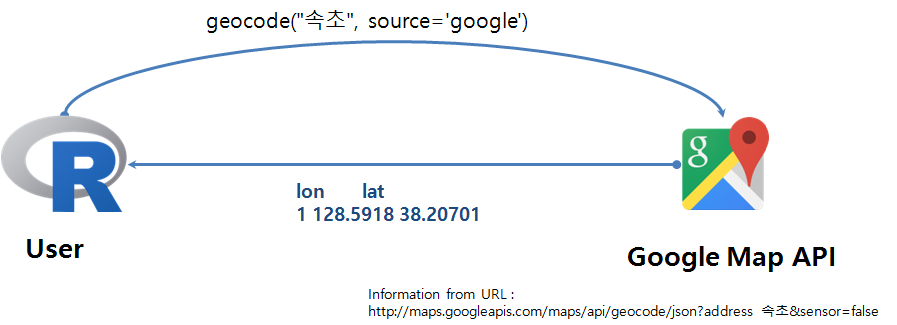
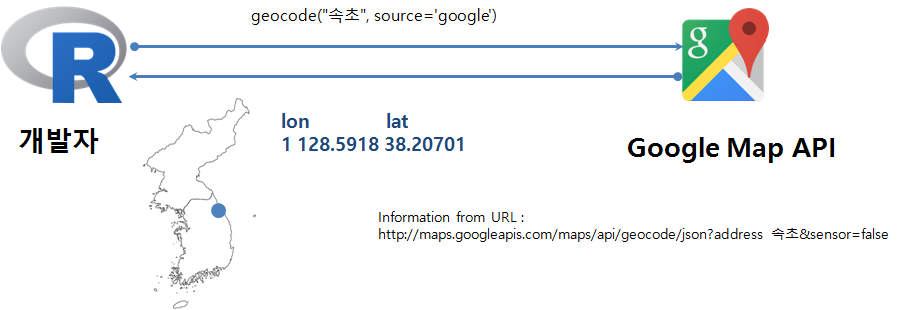
geocode lesson authored

diff --git a/geo-info-google.html b/geo-info-google.html
@@ -37,54 +37,90 @@
       <div class="row">
         <div class="col-md-10 col-md-offset-1">
           <h1 class="title">데이터 과학</h1>
-          <h2 class="subtitle">지리정보 시각화 - 구글</h2>
+          <h2 class="subtitle">지리정보 시각화 - 지리정보 API</h2>
 <section class="objectives panel panel-warning">
 <div class="panel-heading">
 <h2 id="학습-목표"><span class="glyphicon glyphicon-certificate"></span>학습 목표</h2>
 </div>
 <div class="panel-body">
 <ul>
-<li>한국지명을 지리정보(위도, 경도)로 변환한다. <a href="#fn1" class="footnoteRef" id="fnref1"><sup>1</sup></a></li>
-<li><code>leaflet</code> 팩키지를 활용하여 지리정보를 시각화한다.</li>
+<li>한국 주소명을 지리정보(위도, 경도)로 변환한다. <a href="#fn1" class="footnoteRef" id="fnref1"><sup>1</sup></a></li>
+<li><code>dplyr</code> 팩키지 <code>mutate_geocode</code> 위도경도 함수를 파이프연산자와 결합하여 코드를 간결화한다.</li>
 </ul>
 </div>
 </section>
-<h3 id="한국지명을-지리정보로-변환">한국지명을 지리정보로 변환</h3>
-<h4 id="구글-지도정보-api">구글 지도정보 API</h4>
-<p>한국지명을 전달하면 위도, 경도 정보를 반환하는 API로 <a href="https://developers.google.com/maps/?hl=ko">구글 지도 API</a>를 사용한다. <code>library(ggmap)</code> 팩키지를 불러오면 <code>geocode</code> 함수가 지명을 받아 위도, 경도 정보를 반환한다.</p>
-<p><img src="fig/geo-googleapi.png" alt="Google 지도 API" width="50%" /></p>
+<h3 id="지리정보-api---geocode">1. 지리정보 API - <code>geocode</code></h3>
+<p>데이터를 지리정보와 결합하여 제공할 경우 현상에 대한 이해, 예측, 통찰력을 얻을 수 있다. 데이터를 지리정보와 결합할 때, 가장 필요한 것이 주소정보에 위도와 경도 정보를 붙여 지도에 표시하게 된다.</p>
+<p>주소정보가 제공되었을 때, 이에 해당되는 위도와 경도를 불러올 때 사용하는 것이 함수의 일종인 API다. 위경도 정보를 제공하는 업체로 구글, 네이버, 다음 등 여러 업체가 있다.</p>
+<p>R에서 구글, 네이버, 다음등에서 제공하는 지리정보 API를 활용할 경우, 크게 두가지 방법이 존재한다. 하나는 직접 구글, 네이버, 다음 지리정보 API 문서를 읽고 R코드로 작성하는 방식이 있고, 또 다른 하나는 <code>ggmap</code> 팩키지에서 이미 지리정보 API를 내재화해서 함수로 구현해 놓은 것을 호출해서 사용하는 방법이다.</p>
+<p>한국주소를 전달하면 위도, 경도 정보를 반환하는 API로 <a href="https://developers.google.com/maps/?hl=ko">구글 지도 API</a>를 기본으로 사용한다. <code>library(ggmap)</code> 팩키지를 불러오면 <code>geocode</code> 함수가 주소명을 받아 위도, 경도 정보를 반환한다. 하지만, Hadley Wickham이 관여한 팩키지는 <a href="encoding.html">인코딩</a>으로 <strong>utf-8</strong>을 사용한다. 따라서, 한국어는 <code>enc2utf8</code> 함수를 사용해서 인코딩을 바꿔 넣은 후에 <code>geocode</code> 함수에 인자로 넣어야 원하는 위도경도 정보를 반환받을 수 있다.</p>
+<p><img src="fig/geo-googleapi.png" alt="Google 지도 API" width="77%" /></p>
 <div class="sourceCode"><pre class="sourceCode r"><code class="sourceCode r"><span class="kw">library</span>(ggmap)
 <span class="kw">library</span>(ggplot2)
 <span class="kw">geocode</span>(<span class="kw">enc2utf8</span>(<span class="st">&quot;속초&quot;</span>), <span class="dt">source=</span><span class="st">&#39;google&#39;</span>)</code></pre></div>
-<pre><code>FALSE        lon      lat
-FALSE 1 128.5918 38.20701</code></pre>
+<pre class="output"><code>FALSE        lon      lat
+FALSE 1 128.5918 38.20701
+</code></pre>
 <p>주소정보를 함께 출력하고자할 경우 <code>output=&quot;latlona&quot;</code> 선택옵션을 추가한다.</p>
 <div class="sourceCode"><pre class="sourceCode r"><code class="sourceCode r"><span class="co">#geocode(enc2utf8(&quot;속초&quot;), source=&#39;google&#39;, output=&quot;latlona&quot;)</span>
 <span class="kw">geocode</span>(<span class="kw">enc2utf8</span>(<span class="st">&quot;속초&amp;language=ko&quot;</span>), <span class="dt">source=</span><span class="st">&#39;google&#39;</span>, <span class="dt">output=</span><span class="st">&quot;latlona&quot;</span>)</code></pre></div>
-<pre><code>FALSE        lon      lat                address
-FALSE 1 128.5918 38.20701 대한민국 강원도 속초시</code></pre>
+<pre class="output"><code>FALSE        lon      lat                address
+FALSE 1 128.5918 38.20701 대한민국 강원도 속초시
+</code></pre>
 <p><code>&quot;속초&quot;</code>를 <code>geocode</code> 함수 인자로 넣은 경우와 <code>&quot;속초&amp;language=ko&quot;</code> 넣어 함께 넘긴 경우 한글주소로 출력되게 한다.</p>
-<h4 id="다수-한글지명을-구글-지도-api-에-넘겨-위경도-정보-받아오기">다수 한글지명을 구글 지도 API 에 넘겨 위경도 정보 받아오기</h4>
-<p><code>mutate_geocode</code> 함수를 사용해서 위경도 정보를 일괄적으로 받아와서 R 객체로 저장한다.</p>
-<div class="sourceCode"><pre class="sourceCode r"><code class="sourceCode r"><span class="kw">library</span>(dplyr)
-df &lt;-<span class="st"> </span><span class="kw">data.frame</span>(<span class="dt">city=</span><span class="kw">c</span>(<span class="st">&quot;속초&quot;</span>, <span class="st">&quot;강릉&quot;</span>, <span class="st">&quot;양양&quot;</span>, <span class="st">&quot;간성&quot;</span>), <span class="dt">stringsAsFactors =</span> <span class="ot">FALSE</span>)
-df.yd &lt;-<span class="st"> </span>df %&gt;%<span class="st"> </span><span class="kw">mutate_geocode</span>(city)</code></pre></div>
-<p>영동지방 4개 지역에 대한 정보를 받아온다. 받아온 정보를 <code>df.yd</code> 데이터프레임에 저장하고 이를 활용하여 구글지도에 시각화를 한다.</p>
-<div class="sourceCode"><pre class="sourceCode r"><code class="sourceCode r">youngdongMap &lt;-<span class="st"> </span><span class="kw">qmap</span>(<span class="kw">enc2utf8</span>(<span class="st">&quot;속초&quot;</span>), <span class="dt">zoom =</span> <span class="dv">8</span>, <span class="dt">maptype =</span> <span class="st">&quot;toner-lite&quot;</span>)
+<h3 id="한개-이상-주소정보에서-위도경도-정보-뽑아내기">2. 한개 이상 주소정보에서 위도경도 정보 뽑아내기</h3>
+<p>구글 지도 API를 사용할 경우, 무료로 이용할 수 있는 반면에 사용자의 오남용을 방지하기 위해서 어느 API 서비스도 마찬가지지만, 구글이나 API 서비스 제공자 임의로 API를 변경할 수 있고, 사용제한을 둔다. 현재 글을 작성하는 시점에서 구글 지도 API의 경우 일일 2,500 번 무료로 사용이 가능하다.</p>
+<p><code>geocodeQueryCheck(userType = &quot;free&quot;)</code> 명령어를 사용하여 구글 지도 API 사용량을 확인할 수 있다.</p>
+<div class="sourceCode"><pre class="sourceCode r"><code class="sourceCode r"><span class="kw">geocodeQueryCheck</span>(<span class="dt">userType =</span> <span class="st">&quot;free&quot;</span>)</code></pre></div>
+<pre class="output"><code>2498 geocoding queries remaining.
+</code></pre>
+<p>경기도 및 강원도 3개 지점에 대한 위도경도 정보를 받아오는 경우, 먼저 데이터프레임을 생성하고 나서, <code>enc2utf8()</code> 함수로 인코딩을 검증하고 나서 <code>geocode</code> API를 호출해서 위도경도 정보를 받아오면서 바로 데이터프레임에 붙인다.</p>
+<div class="sourceCode"><pre class="sourceCode r"><code class="sourceCode r"><span class="kw">library</span>(ggmap)
+<span class="kw">library</span>(ggplot2)
+<span class="kw">library</span>(plyr)
 
-youngdongMap +<span class="st"> </span><span class="kw">geom_point</span>(<span class="dt">data =</span> df.yd, <span class="kw">aes</span>(lon,lat), <span class="dt">size =</span> <span class="dv">2</span>, <span class="dt">colour=</span><span class="st">&quot;blue&quot;</span>)</code></pre></div>
-<div class="figure">
-<img src="figure/unnamed-chunk-4-1.png" alt="plot of chunk unnamed-chunk-4" />
-<p class="caption">plot of chunk unnamed-chunk-4</p>
-</div>
-<h3 id="leaflet-팩키지"><code>leaflet</code> 팩키지</h3>
-<p>GoogleVis <a href="#fn2" class="footnoteRef" id="fnref2"><sup>2</sup></a>, 전세계 원자력 발전소 위치 <a href="#fn3" class="footnoteRef" id="fnref3"><sup>3</sup></a></p>
+<span class="kw">geocodeQueryCheck</span>(<span class="dt">userType =</span> <span class="st">&quot;free&quot;</span>)
+
+kangwon.loc &lt;-<span class="st"> </span><span class="kw">data.frame</span>(<span class="dt">addr=</span><span class="kw">c</span>(<span class="st">&quot;강원도 속초시 영랑동&quot;</span>, 
+                                 <span class="st">&quot;경기도 의왕시 포일세거리로 73&quot;</span>,
+                                 <span class="st">&quot;경기도 성남시 분당구 미금동&quot;</span>), <span class="dt">stringsAsFactors =</span> <span class="ot">FALSE</span>)
+
+kangwon.loc$addr &lt;-<span class="st"> </span><span class="kw">enc2utf8</span>(kangwon.loc$addr)
+
+kangwon.loc.latlon &lt;-<span class="st"> </span><span class="kw">geocode</span>(kangwon.loc$addr, <span class="dt">source=</span><span class="st">&quot;google&quot;</span>)
+
+kangwon.loc.latlon &lt;-<span class="st"> </span><span class="kw">with</span>(kangwon.loc, <span class="kw">data.frame</span>(addr,
+                                   <span class="kw">laply</span>(addr, function(val){<span class="kw">geocode</span>(val)})))
+
+kangwon.loc.latlon  </code></pre></div>
+<pre class="output"><code>FALSE                            addr      lon     lat
+FALSE 1          강원도 속초시 영랑동  128.588 38.2239
+FALSE 2 경기도 의왕시 포일세거리로 73 126.9683 37.3447
+FALSE 3   경기도 성남시 분당구 미금동 127.1189 37.3827
+</code></pre>
+<p><code>geocodeQueryCheck(userType = &quot;free&quot;)</code> 명령어로 사용량이 3개 준 것을 확인할 수 있다.</p>
+<div class="sourceCode"><pre class="sourceCode r"><code class="sourceCode r"><span class="kw">geocodeQueryCheck</span>(<span class="dt">userType =</span> <span class="st">&quot;free&quot;</span>)</code></pre></div>
+<pre class="output"><code>2492 geocoding queries remaining.
+</code></pre>
+<h3 id="dplyr-함수를-활용한-더-간결한-코드">3. <code>dplyr</code> 함수를 활용한 더 간결한 코드</h3>
+<p><code>dplyr</code>에서 제공하는 <code>mutate_geocode</code> 함수를 사용해서 위도경도 정보를 일괄적으로 받아와서 R 데이터프레임으로 저장한다.</p>
+<div class="sourceCode"><pre class="sourceCode r"><code class="sourceCode r"><span class="kw">library</span>(dplyr)
+kangwon.loc.dplyr &lt;-<span class="st"> </span>kangwon.loc %&gt;%<span class="st"> </span><span class="kw">mutate_geocode</span>(addr)
+kangwon.loc.dplyr</code></pre></div>
+<pre class="output"><code>FALSE                            addr      lon     lat
+FALSE 1          강원도 속초시 영랑동 128.5880 38.2239
+FALSE 2 경기도 의왕시 포일세거리로 73 126.9683 37.3447
+FALSE 3   경기도 성남시 분당구 미금동 127.1189 37.3827
+</code></pre>
+<p>경기도와 강원도 3개 주소정보를 구글 지도 API 지역에 전달하여 위도와 경도정보를 받아와서 이를 데이터프레임에 붙인다. 받아온 정보를 <code>kangwon.loc.dplyr</code> 데이터프레임에 저장하고 이를 활용하여 구글지도에 시각화를 한다.</p>
+<div class="sourceCode"><pre class="sourceCode r"><code class="sourceCode r">kangwonMap &lt;-<span class="st"> </span><span class="kw">qmap</span>(<span class="kw">enc2utf8</span>(<span class="st">&quot;속초&quot;</span>), <span class="dt">zoom =</span> <span class="dv">8</span>, <span class="dt">maptype =</span> <span class="st">&quot;toner-lite&quot;</span>)
+
+kangwonMap +<span class="st"> </span><span class="kw">geom_point</span>(<span class="dt">data =</span> kangwon.loc.dplyr, <span class="kw">aes</span>(lon,lat), <span class="dt">size =</span> <span class="dv">2</span>, <span class="dt">colour=</span><span class="st">&quot;blue&quot;</span>)</code></pre></div>
+<p><img src="fig/unnamed-chunk-8-1.png" title="plot of chunk unnamed-chunk-8" alt="plot of chunk unnamed-chunk-8" style="display: block; margin: auto;" /></p>
 <div class="footnotes">
 <hr />
 <ol>
 <li id="fn1"><p><a href="http://lumiamitie.github.io/r/geocoding-with-r-02/">GeoCoding with R</a><a href="#fnref1">↩</a></p></li>
-<li id="fn2"><p><a href="http://diggdata.in/post/51396519384/plotting-geo-spatial-data-on-google-maps-in-r">Plotting geo-spatial data on Google Maps in R</a><a href="#fnref2">↩</a></p></li>
-<li id="fn3"><p><a href="https://www.google.com/fusiontables/exporttable?query=select%20*%20from%201u4krB7NJ0Ppwzcd5h7uwOak3Reja4A7yVFIklw">Nuclear Power plants</a><a href="#fnref3">↩</a></p></li>
 </ol>
 </div>
         </div>

diff --git a/geo-info-ggmap.html b/geo-info-ggmap.html
@@ -124,6 +124,15 @@ KOR_adm2_projected &lt;-<span class="st"> </span><span class="kw">readOGR</span>
 <span class="kw">plot</span>(KOR_adm2_projected)</code></pre></div>
 <p><img src="fig/korea-admin-level.png" alt="대한민국 행정구역" width="70%" /></p>
 <p><a href="http://mazamascience.com/WorkingWithData/?p=1277">Using R - Working with Geospatial Data</a> <a href="http://neondataskills.org/R/Raster-Data-In-R/">Raster Data in R - The Basics</a></p>
+<h3 id="leaflet-팩키지"><code>leaflet</code> 팩키지</h3>
+<p>GoogleVis <a href="#fn1" class="footnoteRef" id="fnref1"><sup>1</sup></a>, 전세계 원자력 발전소 위치 <a href="#fn2" class="footnoteRef" id="fnref2"><sup>2</sup></a></p>
+<div class="footnotes">
+<hr />
+<ol>
+<li id="fn1"><p><a href="http://diggdata.in/post/51396519384/plotting-geo-spatial-data-on-google-maps-in-r">Plotting geo-spatial data on Google Maps in R</a><a href="#fnref1">↩</a></p></li>
+<li id="fn2"><p><a href="https://www.google.com/fusiontables/exporttable?query=select%20*%20from%201u4krB7NJ0Ppwzcd5h7uwOak3Reja4A7yVFIklw">Nuclear Power plants</a><a href="#fnref2">↩</a></p></li>
+</ol>
+</div>
         </div>
       </div>
       </article>

diff --git a/geo-info-google.md b/geo-info-google.md
@@ -1,7 +1,7 @@
 ---
 layout: page
 title: 데이터 과학
-subtitle: 지리정보 시각화 - 구글
+subtitle: 지리정보 시각화 - 지리정보 API
 output:
   html_document: 
     keep_md: yes
@@ -10,74 +10,166 @@ output:
 mainfont: NanumGothic
 ---
 
+
+
 > ## 학습 목표 {.objectives}
 >
-> *  한국지명을 지리정보(위도, 경도)로 변환한다. [^geoCodingWithR]
-> * `leaflet` 팩키지를 활용하여 지리정보를 시각화한다.
+> *  한국 주소명을 지리정보(위도, 경도)로 변환한다. [^geoCodingWithR]
+> * `dplyr` 팩키지 `mutate_geocode` 위도경도 함수를 파이프연산자와 결합하여 코드를 간결화한다.  
 
-### 한국지명을 지리정보로 변환
+### 1. 지리정보 API - `geocode` 
 
-#### 구글 지도정보 API 
+데이터를 지리정보와 결합하여 제공할 경우 현상에 대한 이해, 예측, 통찰력을 얻을 수 있다.
+데이터를 지리정보와 결합할 때, 가장 필요한 것이 주소정보에 위도와 경도 정보를 붙여 지도에 표시하게 된다.
 
-한국지명을 전달하면 위도, 경도 정보를 반환하는 API로 [구글 지도 API](https://developers.google.com/maps/?hl=ko)를 사용한다.
-`library(ggmap)` 팩키지를 불러오면 `geocode` 함수가 지명을 받아 위도, 경도 정보를 반환한다.
+주소정보가 제공되었을 때, 이에 해당되는 위도와 경도를 불러올 때 사용하는 것이 함수의 일종인 API다.
+위경도 정보를 제공하는 업체로 구글, 네이버, 다음 등 여러 업체가 있다.
+
+R에서 구글, 네이버, 다음등에서 제공하는 지리정보 API를 활용할 경우, 크게 두가지 방법이 존재한다. 
+하나는 직접 구글, 네이버, 다음 지리정보 API 문서를 읽고 R코드로 작성하는 방식이 있고,
+또 다른 하나는 `ggmap` 팩키지에서 이미 지리정보 API를 내재화해서 함수로 구현해 놓은 것을 호출해서 사용하는 방법이다.
+
+한국주소를 전달하면 위도, 경도 정보를 반환하는 API로 [구글 지도 API](https://developers.google.com/maps/?hl=ko)를 기본으로 사용한다. 
+`library(ggmap)` 팩키지를 불러오면 `geocode` 함수가 주소명을 받아 위도, 경도 정보를 반환한다.
+하지만, Hadley Wickham이 관여한 팩키지는 [인코딩](encoding.html)으로 **utf-8**을 사용한다. 
+따라서, 한국어는 `enc2utf8` 함수를 사용해서 인코딩을 바꿔 넣은 후에 `geocode` 함수에 인자로 넣어야 원하는 위도경도 정보를 반환받을 수 있다. 
+
+<img src="fig/geo-googleapi.png" alt="Google 지도 API" width="77%" />
 
 
-<img src="fig/geo-googleapi.png" alt="Google 지도 API" width="50%" />
-
-
-```r
+~~~{.r}
 library(ggmap)
 library(ggplot2)
 geocode(enc2utf8("속초"), source='google')
-```
+~~~
 
-```
+
+
+~~~{.output}
 FALSE        lon      lat
 FALSE 1 128.5918 38.20701
-```
+
+~~~
 
 주소정보를 함께 출력하고자할 경우 `output="latlona"` 선택옵션을 추가한다.
 
 
-```r
+~~~{.r}
 #geocode(enc2utf8("속초"), source='google', output="latlona")
 geocode(enc2utf8("속초&language=ko"), source='google', output="latlona")
-```
+~~~
 
-```
+
+
+~~~{.output}
 FALSE        lon      lat                address
 FALSE 1 128.5918 38.20701 대한민국 강원도 속초시
-```
+
+~~~
 `"속초"`를 `geocode` 함수 인자로 넣은 경우와 `"속초&language=ko"` 넣어 함께 넘긴 경우 한글주소로 출력되게 한다.
 
-#### 다수 한글지명을 구글 지도 API 에 넘겨 위경도 정보 받아오기 
 
-`mutate_geocode` 함수를 사용해서 위경도 정보를 일괄적으로 받아와서 R 객체로 저장한다.
+### 2. 한개 이상 주소정보에서 위도경도 정보 뽑아내기 
+
+구글 지도 API를 사용할 경우, 무료로 이용할 수 있는 반면에 사용자의 오남용을 방지하기 위해서 어느 API 서비스도 마찬가지지만,
+구글이나 API 서비스 제공자 임의로 API를 변경할 수 있고, 사용제한을 둔다.
+현재 글을 작성하는 시점에서 구글 지도 API의 경우 일일 2,500 번 무료로 사용이 가능하다.
+
+`geocodeQueryCheck(userType = "free")` 명령어를 사용하여 구글 지도 API 사용량을 확인할 수 있다.
 
 
-```r
+~~~{.r}
+geocodeQueryCheck(userType = "free")
+~~~
+
+
+
+~~~{.output}
+2498 geocoding queries remaining.
+
+~~~
+
+경기도 및 강원도 3개 지점에 대한 위도경도 정보를 받아오는 경우, 먼저 데이터프레임을 생성하고 나서,
+`enc2utf8()` 함수로 인코딩을 검증하고 나서 `geocode` API를 호출해서 위도경도 정보를 받아오면서
+바로 데이터프레임에 붙인다.
+
+
+~~~{.r}
+library(ggmap)
+library(ggplot2)
+library(plyr)
+
+geocodeQueryCheck(userType = "free")
+
+kangwon.loc <- data.frame(addr=c("강원도 속초시 영랑동", 
+                                 "경기도 의왕시 포일세거리로 73",
+                                 "경기도 성남시 분당구 미금동"), stringsAsFactors = FALSE)
+
+kangwon.loc$addr <- enc2utf8(kangwon.loc$addr)
+
+kangwon.loc.latlon <- geocode(kangwon.loc$addr, source="google")
+
+kangwon.loc.latlon <- with(kangwon.loc, data.frame(addr,
+                                   laply(addr, function(val){geocode(val)})))
+
+kangwon.loc.latlon  
+~~~
+
+
+
+~~~{.output}
+FALSE                            addr      lon     lat
+FALSE 1          강원도 속초시 영랑동  128.588 38.2239
+FALSE 2 경기도 의왕시 포일세거리로 73 126.9683 37.3447
+FALSE 3   경기도 성남시 분당구 미금동 127.1189 37.3827
+
+~~~
+
+`geocodeQueryCheck(userType = "free")` 명령어로 사용량이 3개 준 것을 확인할 수 있다.
+
+
+~~~{.r}
+geocodeQueryCheck(userType = "free")
+~~~
+
+
+
+~~~{.output}
+2492 geocoding queries remaining.
+
+~~~
+
+### 3. `dplyr` 함수를 활용한 더 간결한 코드
+
+`dplyr`에서 제공하는 `mutate_geocode` 함수를 사용해서 위도경도 정보를 일괄적으로 받아와서 R 데이터프레임으로 저장한다.
+
+
+~~~{.r}
 library(dplyr)
-df <- data.frame(city=c("속초", "강릉", "양양", "간성"), stringsAsFactors = FALSE)
-df.yd <- df %>% mutate_geocode(city)
-```
-영동지방 4개 지역에 대한 정보를 받아온다. 받아온 정보를 `df.yd` 데이터프레임에 저장하고 이를 활용하여 구글지도에 시각화를 한다.
+kangwon.loc.dplyr <- kangwon.loc %>% mutate_geocode(addr)
+kangwon.loc.dplyr
+~~~
 
 
-```r
-youngdongMap <- qmap(enc2utf8("속초"), zoom = 8, maptype = "toner-lite")
 
-youngdongMap + geom_point(data = df.yd, aes(lon,lat), size = 2, colour="blue")
-```
+~~~{.output}
+FALSE                            addr      lon     lat
+FALSE 1          강원도 속초시 영랑동 128.5880 38.2239
+FALSE 2 경기도 의왕시 포일세거리로 73 126.9683 37.3447
+FALSE 3   경기도 성남시 분당구 미금동 127.1189 37.3827
 
-![plot of chunk unnamed-chunk-4](figure/unnamed-chunk-4-1.png)
+~~~
 
-### `leaflet` 팩키지 
-
-
-GoogleVis [^googlevis],  전세계 원자력 발전소 위치 [^powerplant]
+경기도와 강원도 3개 주소정보를 구글 지도 API 지역에 전달하여 위도와 경도정보를 받아와서 이를 데이터프레임에 붙인다.
+받아온 정보를 `kangwon.loc.dplyr` 데이터프레임에 저장하고 이를 활용하여 구글지도에 시각화를 한다.
 
 
-[^googlevis]: [Plotting geo-spatial data on Google Maps in R](http://diggdata.in/post/51396519384/plotting-geo-spatial-data-on-google-maps-in-r)
-[^powerplant]: [Nuclear Power plants](https://www.google.com/fusiontables/exporttable?query=select%20*%20from%201u4krB7NJ0Ppwzcd5h7uwOak3Reja4A7yVFIklw)
+~~~{.r}
+kangwonMap <- qmap(enc2utf8("속초"), zoom = 8, maptype = "toner-lite")
+
+kangwonMap + geom_point(data = kangwon.loc.dplyr, aes(lon,lat), size = 2, colour="blue")
+~~~
+
+<img src="fig/unnamed-chunk-8-1.png" title="plot of chunk unnamed-chunk-8" alt="plot of chunk unnamed-chunk-8" style="display: block; margin: auto;" />
+
 [^geoCodingWithR]: [GeoCoding with R](http://lumiamitie.github.io/r/geocoding-with-r-02/)

diff --git a/geo-info-ggmap.md b/geo-info-ggmap.md
@@ -151,6 +151,14 @@ plot(KOR_adm2_projected)
 [Raster Data in R - The Basics](http://neondataskills.org/R/Raster-Data-In-R/)
 
 
+### `leaflet` 팩키지 
+
+
+GoogleVis [^googlevis],  전세계 원자력 발전소 위치 [^powerplant]
+
+
+[^googlevis]: [Plotting geo-spatial data on Google Maps in R](http://diggdata.in/post/51396519384/plotting-geo-spatial-data-on-google-maps-in-r)
+[^powerplant]: [Nuclear Power plants](https://www.google.com/fusiontables/exporttable?query=select%20*%20from%201u4krB7NJ0Ppwzcd5h7uwOak3Reja4A7yVFIklw)
 
 
 
